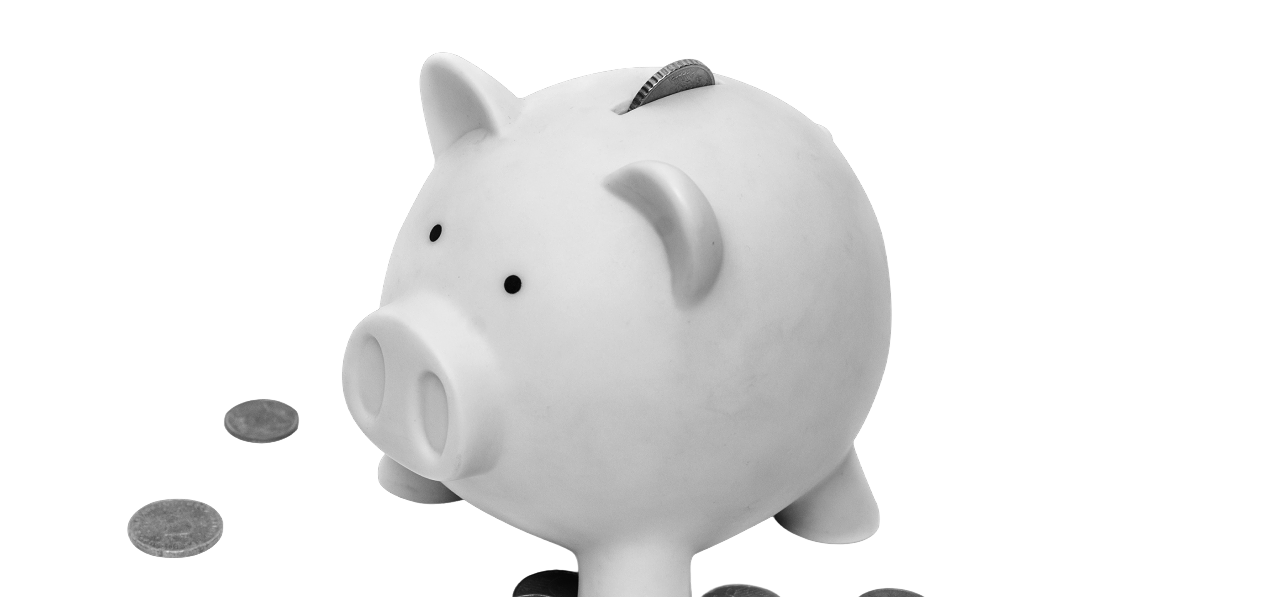
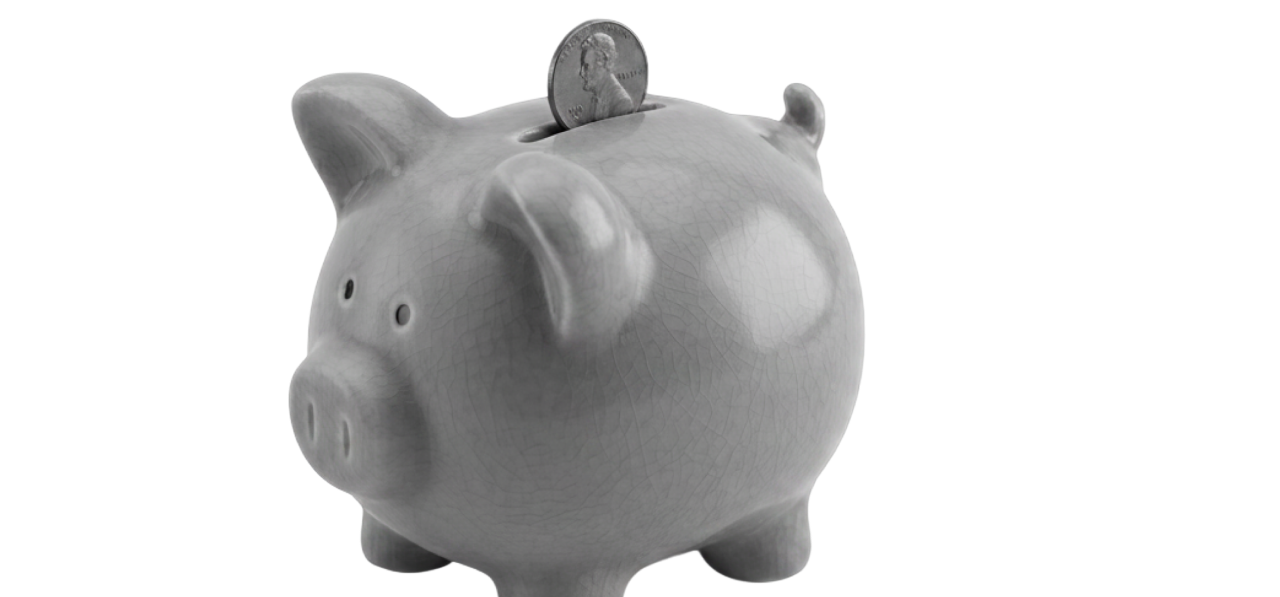
Polish 3D headers: background fit, tablet full-bleed, new N26 BG
- Background images: auto 100% height fit on all viewports
- Tablet (600-980px): device3dContainer full-bleed, no border-radius
- N26 header background replaced with new piggy bank image
- Mobile mask-image fade-out set to 90%

diff --git a/public/css/style.css b/public/css/style.css
@@ -1082,8 +1082,8 @@ footer {
 	position: absolute;
 	inset: 0;
 	background-image: url('../images/ecosia_header_bg.png');
-	background-size: contain;
-	background-position: center bottom;
+	background-size: auto 100%;
+	background-position: center center;
 	background-repeat: no-repeat;
 	opacity: 0.5;
 	z-index: 0;
@@ -1977,6 +1977,18 @@ footer img {
 }
 .formobile {
 	display: block;
+}
+
+.projectTop {
+	overflow: visible;
+}
+
+.device3dContainer {
+	border-radius: 0;
+	position: relative;
+	left: 50%;
+	transform: translateX(-50%);
+	width: 100vw;
 }
 
 } /* end @media (min-width: 600px) and (max-width: 980px) */
